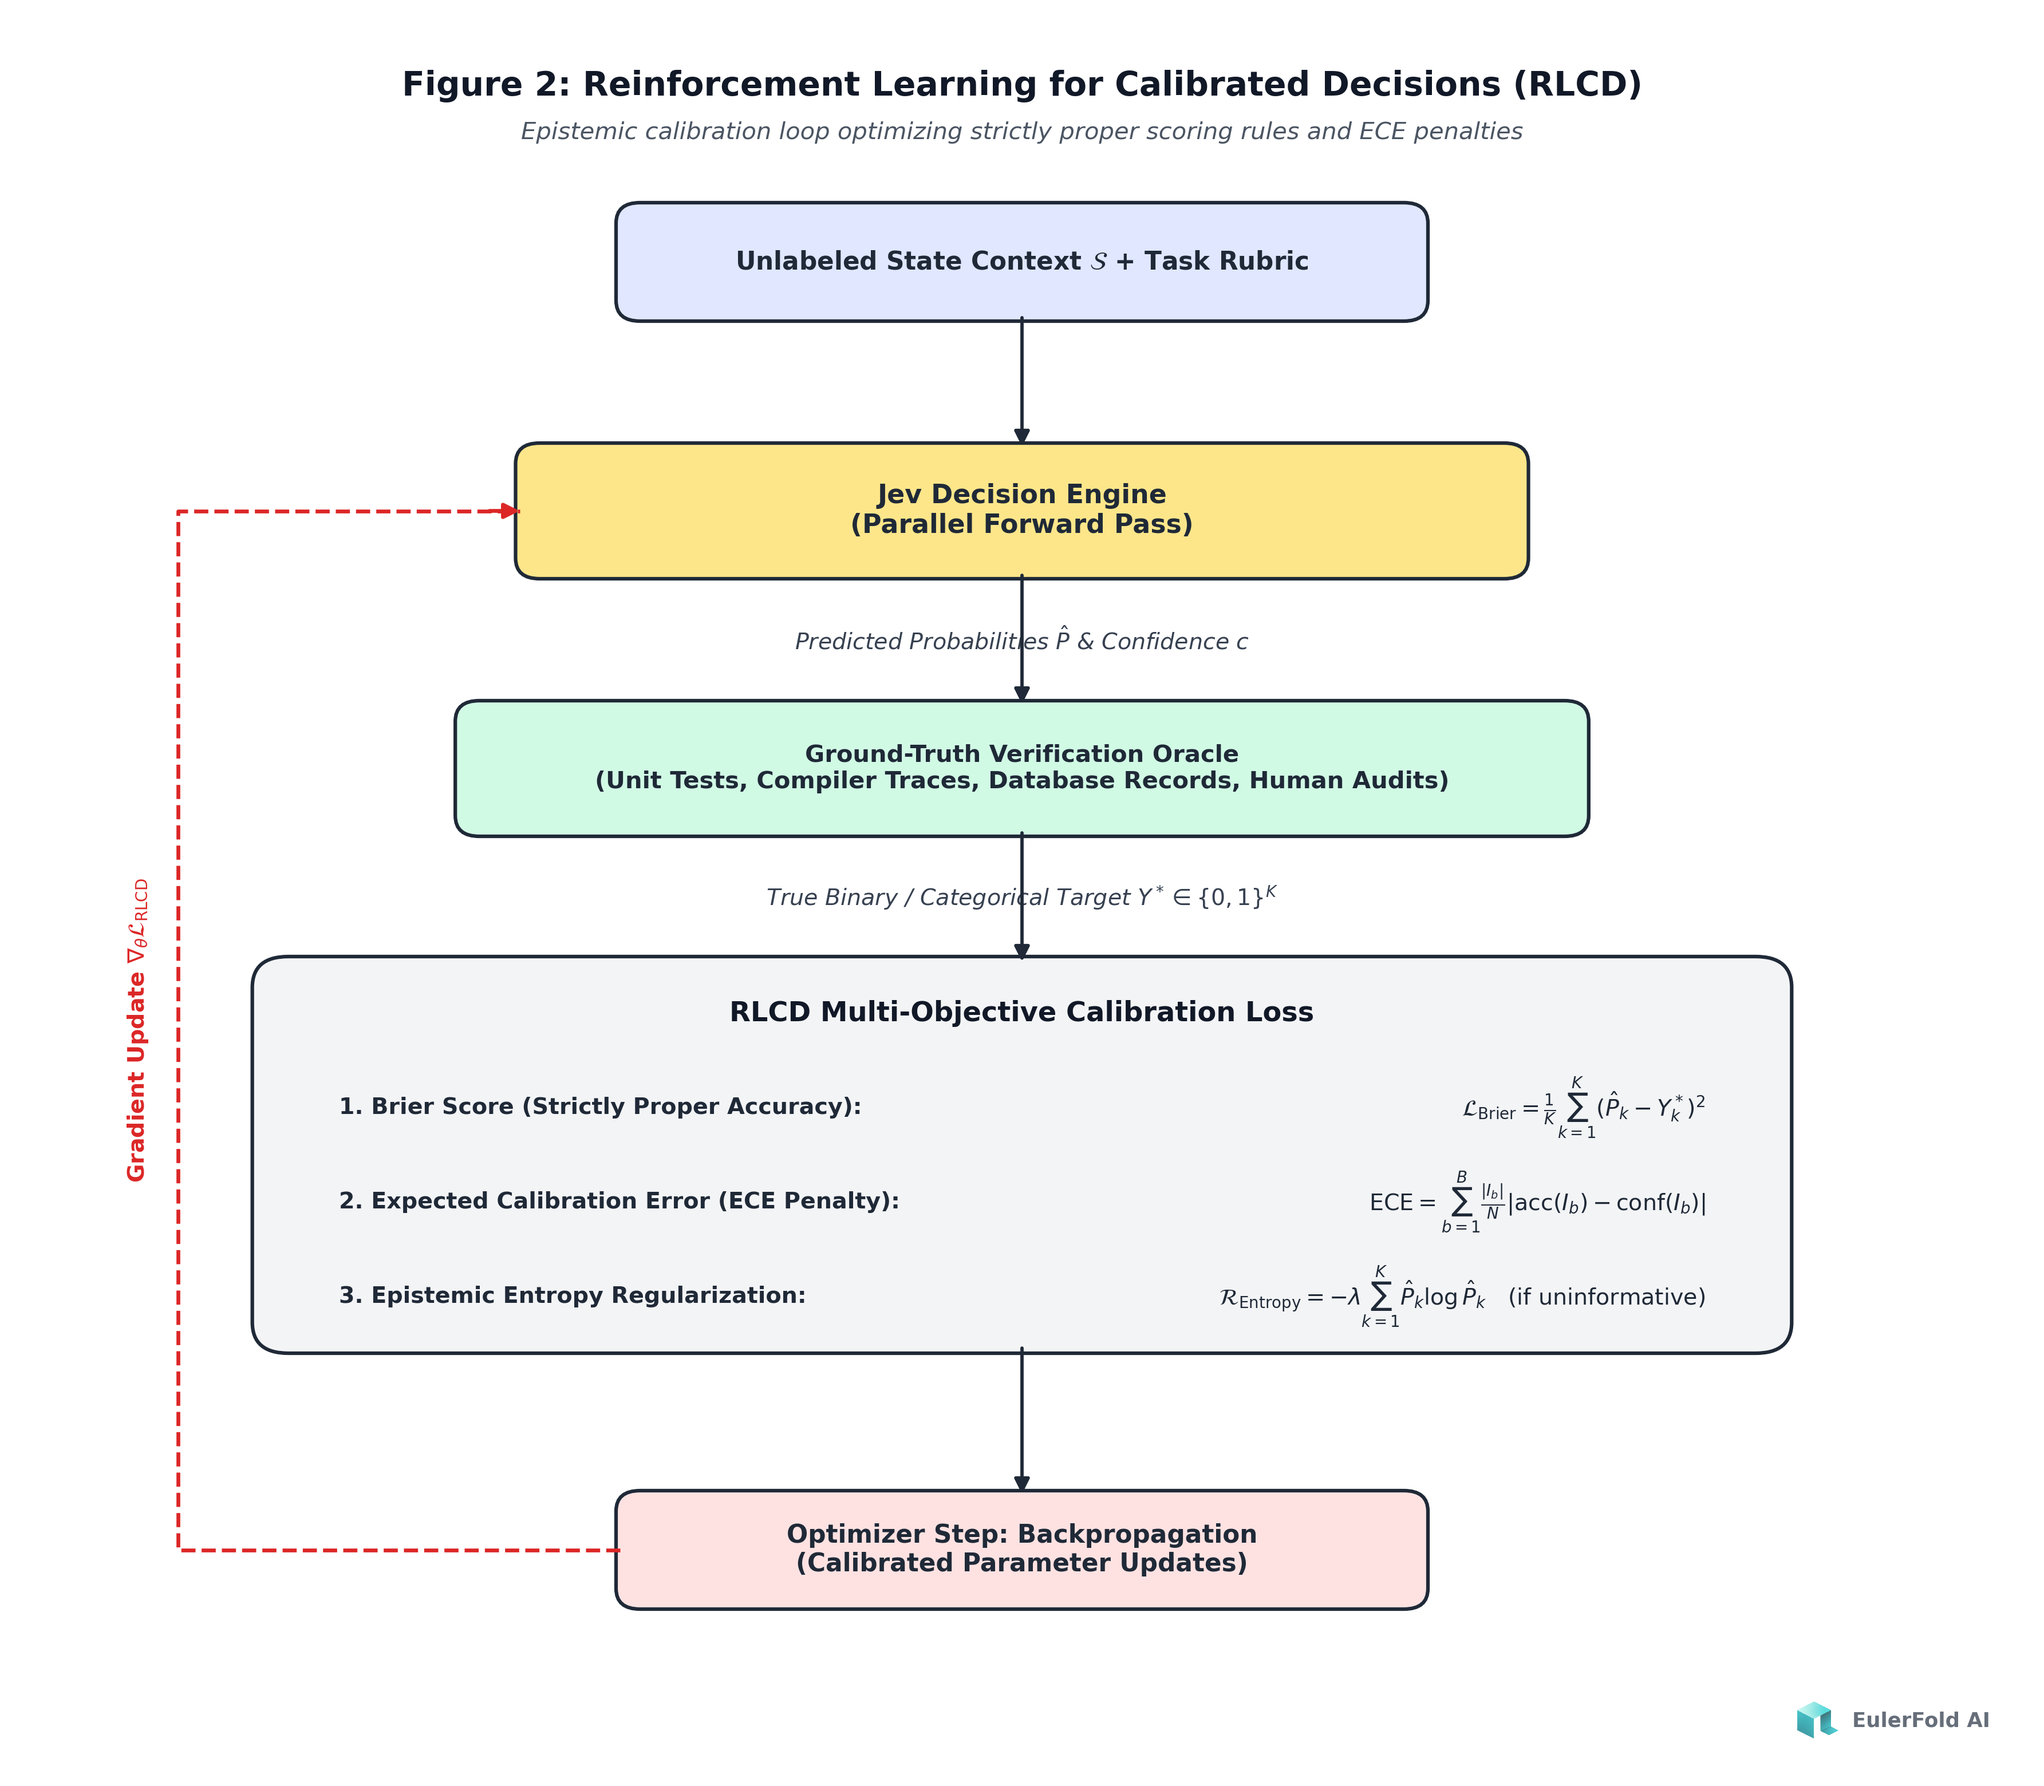
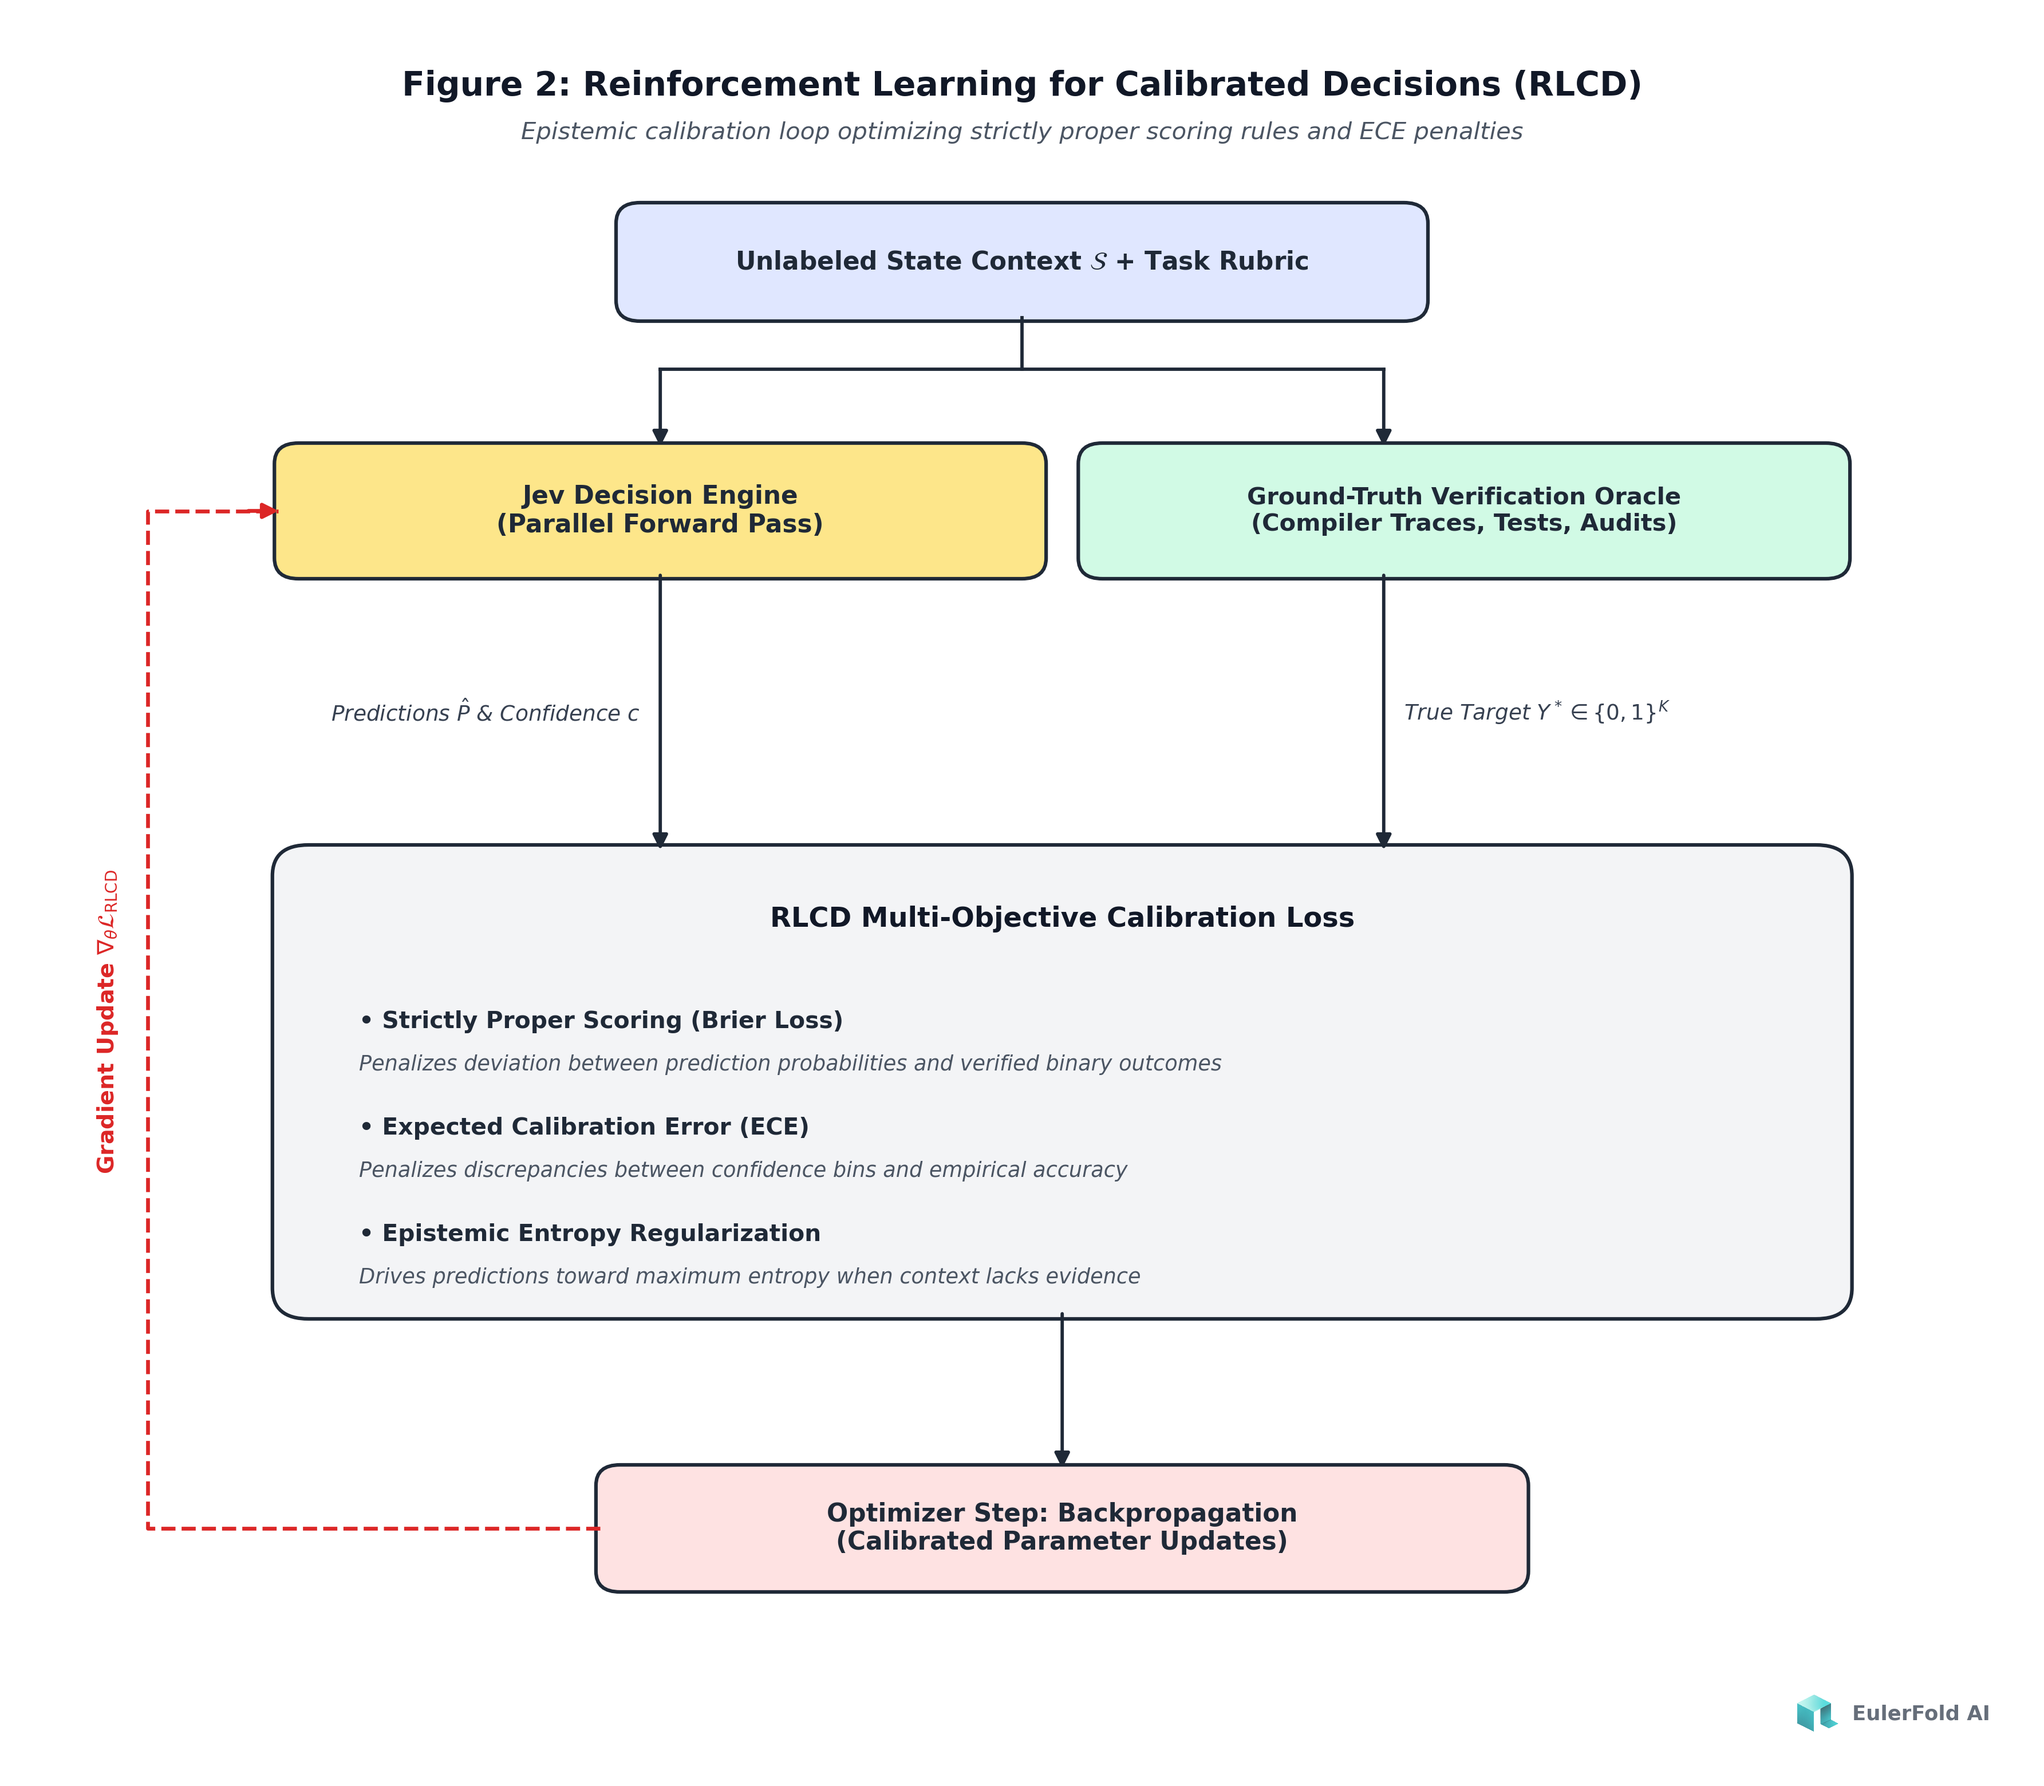
fix(articles): clean RLCD diagram architecture and loss descriptions

diff --git a/scripts/generate_rlcd_diagram.py b/scripts/generate_rlcd_diagram.py
@@ -39,63 +39,64 @@ def create_rlcd_diagram(output_path):
     ax.text(50, 95.3, "Epistemic calibration loop optimizing strictly proper scoring rules and ECE penalties",
             ha='center', va='center', fontsize=10, style='italic', color='#4B5563', family='sans-serif')
 
-    # 1. State + Rubric
+    # 1. State + Rubric (Top)
     draw_box(30, 84.5, 40, 6.5, '#E0E7FF', "Unlabeled State Context $\\mathcal{S}$ + Task Rubric", fontsize=10.5, bold=True)
-    draw_arrow(50, 84.5, 50, 77.0)
 
-    # 2. Decision Engine
-    draw_box(25, 69.5, 50, 7.5, '#FDE68A', "Jev Decision Engine\n(Parallel Forward Pass)", fontsize=11, bold=True)
-    draw_arrow(50, 69.5, 50, 62.0)
+    # Arrow branching from Context to both Jev Engine and Verification Oracle
+    ax.plot([50, 50], [84.5, 81.5], color=c_border, lw=1.4, zorder=4)
+    ax.plot([32, 68], [81.5, 81.5], color=c_border, lw=1.4, zorder=4)
+    draw_arrow(32, 81.5, 32, 77.0)
+    draw_arrow(68, 81.5, 68, 77.0)
 
-    # Output signal text
-    ax.text(50, 65.7, "Predicted Probabilities $\\hat{P}$ & Confidence $c$", ha='center', va='center',
-            fontsize=9.5, style='italic', color='#374151', family='sans-serif')
+    # 2. Side-by-side: Jev Decision Engine (Left) and Ground Truth Oracle (Right)
+    draw_box(13, 69.5, 38, 7.5, '#FDE68A', "Jev Decision Engine\n(Parallel Forward Pass)", fontsize=10.5, bold=True)
+    draw_box(53, 69.5, 38, 7.5, '#D1FAE5', "Ground-Truth Verification Oracle\n(Compiler Traces, Tests, Audits)", fontsize=10, bold=True)
 
-    # 3. Verification Oracle
-    draw_box(22, 54.5, 56, 7.5, '#D1FAE5', "Ground-Truth Verification Oracle\n(Unit Tests, Compiler Traces, Database Records, Human Audits)", 
-             fontsize=10, bold=True)
-    draw_arrow(50, 54.5, 50, 47.0)
+    # Outputs flowing down into RLCD Loss Box
+    draw_arrow(32, 69.5, 32, 53.5)
+    ax.text(31.0, 61.5, "Predictions $\\hat{P}$ & Confidence $c$", ha='right', va='center',
+            fontsize=9.0, style='italic', color='#374151', family='sans-serif')
 
-    # True outcome label
-    ax.text(50, 50.7, "True Binary / Categorical Target $Y^* \\in \\{0, 1\\}^K$", ha='center', va='center',
-            fontsize=9.5, style='italic', color='#374151', family='sans-serif')
+    draw_arrow(68, 69.5, 68, 53.5)
+    ax.text(69.0, 61.5, "True Target $Y^* \\in \\{0, 1\\}^K$", ha='left', va='center',
+            fontsize=9.0, style='italic', color='#374151', family='sans-serif')
 
-    # 4. RLCD Loss Formulation Box
-    draw_box(12, 24.5, 76, 22.5, '#F3F4F6', "", boxstyle="round,pad=0.3,rounding_size=1.8")
-    ax.text(50, 44.0, "RLCD Multi-Objective Calibration Loss", ha='center', va='center', 
+    # 3. RLCD Loss Formulation Box
+    draw_box(13, 26.5, 78, 27.0, '#F3F4F6', "", boxstyle="round,pad=0.3,rounding_size=1.8")
+    ax.text(52, 49.5, "RLCD Multi-Objective Calibration Loss", ha='center', va='center', 
             fontsize=11.5, weight='bold', color='#111827')
 
-    loss_terms = [
-        ("1. Brier Score (Strictly Proper Accuracy):", r"$\mathcal{L}_{\text{Brier}} = \frac{1}{K}\sum_{k=1}^K (\hat{P}_k - Y^*_k)^2$"),
-        ("2. Expected Calibration Error (ECE Penalty):", r"$\text{ECE} = \sum_{b=1}^B \frac{|I_b|}{N} |\text{acc}(I_b) - \text{conf}(I_b)|$"),
-        ("3. Epistemic Entropy Regularization:", r"$\mathcal{R}_{\text{Entropy}} = -\lambda \sum_{k=1}^K \hat{P}_k \log \hat{P}_k \quad (\text{if uninformative})$")
+    loss_items = [
+        ("• Strictly Proper Scoring (Brier Loss)", "Penalizes deviation between prediction probabilities and verified binary outcomes"),
+        ("• Expected Calibration Error (ECE)", "Penalizes discrepancies between confidence bins and empirical accuracy"),
+        ("• Epistemic Entropy Regularization", "Drives predictions toward maximum entropy when context lacks evidence")
     ]
 
-    y_pos = 38.5
-    for label, formula in loss_terms:
-        ax.text(16, y_pos, label, ha='left', va='center', fontsize=9.5, weight='bold', color='#1F2937')
-        ax.text(84, y_pos, formula, ha='right', va='center', fontsize=9.5, color='#1F2937')
-        y_pos -= 5.5
+    y_pos = 43.5
+    for title, desc in loss_items:
+        ax.text(17, y_pos, title, ha='left', va='center', fontsize=9.8, weight='bold', color='#1F2937')
+        ax.text(17, y_pos - 2.5, desc, ha='left', va='center', fontsize=8.8, color='#4B5563', style='italic')
+        y_pos -= 6.2
 
-    # 5. Feedback Loop Arrow
-    draw_arrow(50, 24.5, 50, 16.0)
-    draw_box(30, 9.5, 40, 6.5, '#FEE2E2', "Optimizer Step: Backpropagation\n(Calibrated Parameter Updates)", fontsize=10.5, bold=True)
+    # 4. Feedback Loop Arrow
+    draw_arrow(52, 26.5, 52, 17.5)
+    draw_box(29, 10.5, 46, 7.0, '#FEE2E2', "Optimizer Step: Backpropagation\n(Calibrated Parameter Updates)", fontsize=10.5, bold=True)
 
     # Loop back to Jev
-    ax.plot([30, 8, 8, 25], [12.75, 12.75, 73.25, 73.25], color='#DC2626', lw=1.6, linestyle='--', zorder=4)
-    draw_arrow(23.5, 73.25, 25, 73.25, color='#DC2626', width=1.6)
-    ax.text(6.0, 43.0, "Gradient Update $\\nabla_\\theta \\mathcal{L}_{\\text{RLCD}}$", ha='center', va='center', 
+    ax.plot([29, 6.5, 6.5, 13], [14.0, 14.0, 73.25, 73.25], color='#DC2626', lw=1.6, linestyle='--', zorder=4)
+    draw_arrow(11.5, 73.25, 13, 73.25, color='#DC2626', width=1.6)
+    ax.text(4.5, 43.5, "Gradient Update $\\nabla_\\theta \\mathcal{L}_{\\text{RLCD}}$", ha='center', va='center', 
             rotation=90, fontsize=9.5, weight='bold', color='#DC2626')
 
     # -------------------------------------------------------------
-    # 6. EULERFOLD AI WATERMARK (Bottom Right, Discrete)
+    # 5. EULERFOLD AI WATERMARK (Bottom Right, Discrete)
     # -------------------------------------------------------------
     try:
         logo_img = mpimg.imread('frontend/public/android-chrome-512x512.png')
         imagebox = OffsetImage(logo_img, zoom=0.038, alpha=0.75)
-        ab = AnnotationBbox(imagebox, (89.5, 2.8), frameon=False, zorder=10)
+        ab = AnnotationBbox(imagebox, (89.5, 3.2), frameon=False, zorder=10)
         ax.add_artist(ab)
-        ax.text(91.3, 2.8, "EulerFold AI", ha='left', va='center',
+        ax.text(91.3, 3.2, "EulerFold AI", ha='left', va='center',
                 fontsize=8.5, weight='bold', color='#4B5563', alpha=0.85, family='sans-serif', zorder=10)
     except Exception as e:
         print(f"Warning: could not add watermark logo: {e}")
